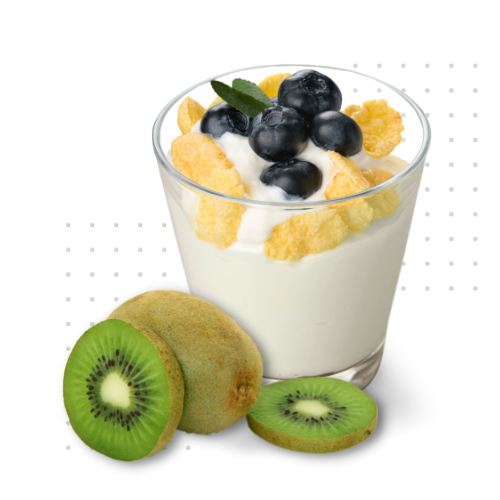
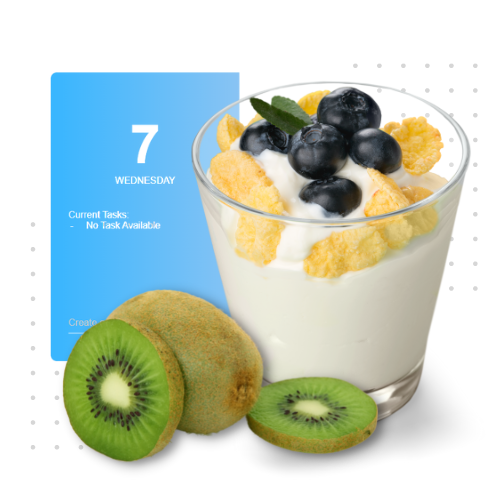
more UI/UX designs

diff --git a/style.css b/style.css
@@ -11,7 +11,7 @@ header{
 footer{
   border-top: 5px solid grey;
   background-image: linear-gradient(to right, rgba(56, 182, 255), rgba(137, 196, 244));
-  height: 200px;
+  height: 25%;
   display: flex;
   justify-content: center;
 }
@@ -23,10 +23,14 @@ h3{
   font-size: 1.5cm;
   font-family: 'Franklin Gothic Medium', 'Arial Narrow', Arial, sans-serif;
   font-weight: 300cm;
+  margin: 2px 0px 0px 0px; 
+  padding: 0px 0px 0px 0px;
+  text-align: center;
 }
 .p1{
   margin-top: 30px;
   font-size: .5cm;
+  text-align: center;
 }
 
 .content-wrapper{
@@ -51,12 +55,24 @@ h3{
   margin-left: -120px;
 
 }
+.content-2child{
+  width: 50%;
+  padding: 50px;
+  float: left;
+  justify-content: center;
+  margin-top: -250px;
+  margin-left: -10px;
 
-h3 {
+}
+.content-3child{
+  width: 50%;
+  float: left;
+  padding: 70px;
+  justify-content: center;
+  margin-top: -40px;
+  margin-right: 10px;
+}
 
-  margin: 2px 0px 0px 0px; 
-  
-  padding: 0px 0px 0px 0px;}
 .item {
   justify-content: center;
   display: flex;
@@ -97,6 +113,8 @@ h3 {
     color: white;
   }
 
+ /*Images*/ 
+
 .img1{
     margin-top: -100px;
     margin-bottom: -100px;
@@ -105,19 +123,30 @@ h3 {
 }
 .img2{
 
-  height: 80%;
-  width: 80%;
-}
-
-.img2{
   height: 200px;
   width: 200px;
   margin-bottom: -60px;
 }
+
 .img3{
   height: 500px;
   width: 500px;
   margin-bottom: -60px;
+}
+.img4{
+  height: 100px;
+  width: 100px;
+  margin-bottom: -20px;
+  margin-left: 65px;
+  margin-right: auto;
+}
+.img5{
+  height: 400px;
+  width: 1032px;
+  margin-top: -75px;
+  margin-bottom: -75px;
+  margin-left: auto;
+  margin-right: auto;
 }
 
 
@@ -138,6 +167,20 @@ h3 {
     width: 25%;
     display: table-cell;
     text-align: center;
+    color: white;
+    text-decoration: none;
+    font-family: Verdana, Geneva, Tahoma, sans-serif;
+    font-weight: bold;
+    padding: 20px 30px;
+    transition: 0.2s ease color;
+    border-style: solid;
+  }
+  .navMenu b {
+    position: relative;
+    width: 25%;
+    display: table-cell;
+    text-align: center;
+    font-size: 1cm;
     color: white;
     text-decoration: none;
     font-family: Verdana, Geneva, Tahoma, sans-serif;

diff --git a/index.html b/index.html
@@ -25,13 +25,41 @@
     <body>
         <div class="content-wrapper">
             <div class="content-container">
-                <div class="content-child">
+                <div class="content-3child">
                     <h3> Strive for better eatting habits</h3>
-                    <p class="p1">Track your calories today!</p>    
+                    <p class="p1">Calorie Counting is one of the efficient ways to
+                        check your dietary habits. Utilize our log and track your calories today!</p>
+                    <br><br>
+                        <nav class="navMenu">
+                          <a style="background-color:rgb(0, 195, 255);" href ="Tracker.html">Track Calories</a>
+                      </nav>    
                 </div>
                 <div class="content-1child">
                     <p><img class = "img3" src="images/food2.png"></p>
                 </div>
+            </div>
+        </div>
+        <br><br><br><br><br><br><br>
+        <div class="content-wrapper">
+            <div class="content-container">
+                <div class="content-2child">
+                    <p><img class = "img3" src="images/food1.png"></p>  
+                </div>
+                <div class="content-1child">
+                    <h3> Look back at your meals</h3>
+                    <p class="p1">Want to see your calorie intake hisotry? Check out what you've eatten
+                        the last week, month,and year through the calendar!</p> 
+                    <br><br>
+                    <nav class="navMenu">
+                        <a style="background-color:rgb(0, 195, 255);" href ="Calendar.html">Calendar</a>
+                    </nav>    
+                </div>
+            </div>
+        </div>
+        <div class="content-wrapper">
+            <div class="content-container">  
+                 <p><img class="img5" src="images/food3.png"></p> 
+                
             </div>
         </div>
     </body>

diff --git a/support2.html b/support2.html
@@ -24,12 +24,14 @@
         <div class="content-wrapper">
             <div class="content-container">
                     <div class="content-child">
+                        <img class = "img4" src="images/sbug.png">
                         <h1>Bugs and Troubleshooting:</h1>
                         <p>Please contact the support team via email
                          at ntang1@luc.edu, gtimoteo@luc.edu, or msantos@luc.edu if you run into any performance
                         bugs or application issues!</p>
                     </div>
                     <div class="content-child">
+                        <img class = "img4" src="images/smeta.png">
                         <h1>Food Metadata:</h1>
                             <p>Currently the Calorie Tracker utilizes the U.S. Department
                                 of Agriculture's FoodData Central(FDC) database to
@@ -37,6 +39,7 @@
                                nutrition information, please visit https://fdc.nal.usda.gov .</p>
                     </div>
                     <div class="content-child">
+                        <img class = "img4" src="images/suser.png">
                         <h1>User Feedback</h1>
                         <p1>User reviews and feedback are important to the Calorie
                             Tracker team! Based on your feedback we can streamline the applications design,

diff --git a/Support.html b/Support.html
@@ -30,7 +30,7 @@
                     <img class = "img2" src="images/Jerome.png">
                   </div> 
                   <div class="inner-item-right">
-                    <h3> Jerome Santos </h3>
+                    <h1> Jerome Santos </h1>
                     Developer </br>
                     msantos@luc.edu
                   </div>   
@@ -40,7 +40,7 @@
                     <img class = "img2" src="images/Gaudwin.png">
                   </div> 
                   <div class="inner-item-right">
-                    <h3> Gaudwin Timoteo </h3>
+                    <h1> Gaudwin Timoteo </h1>
                     Developer </br>
                     gtimoteo@luc.edu
                   </div>   
@@ -50,7 +50,7 @@
                     <img class = "img2" src="images/Nate.png">
                   </div> 
                   <div class="inner-item-right">
-                    <h3> Nate Tang </h3>
+                    <h1> Nate Tang </h1>
                     Developer </br>
                     ntang1@luc.edu
                   </div>   
